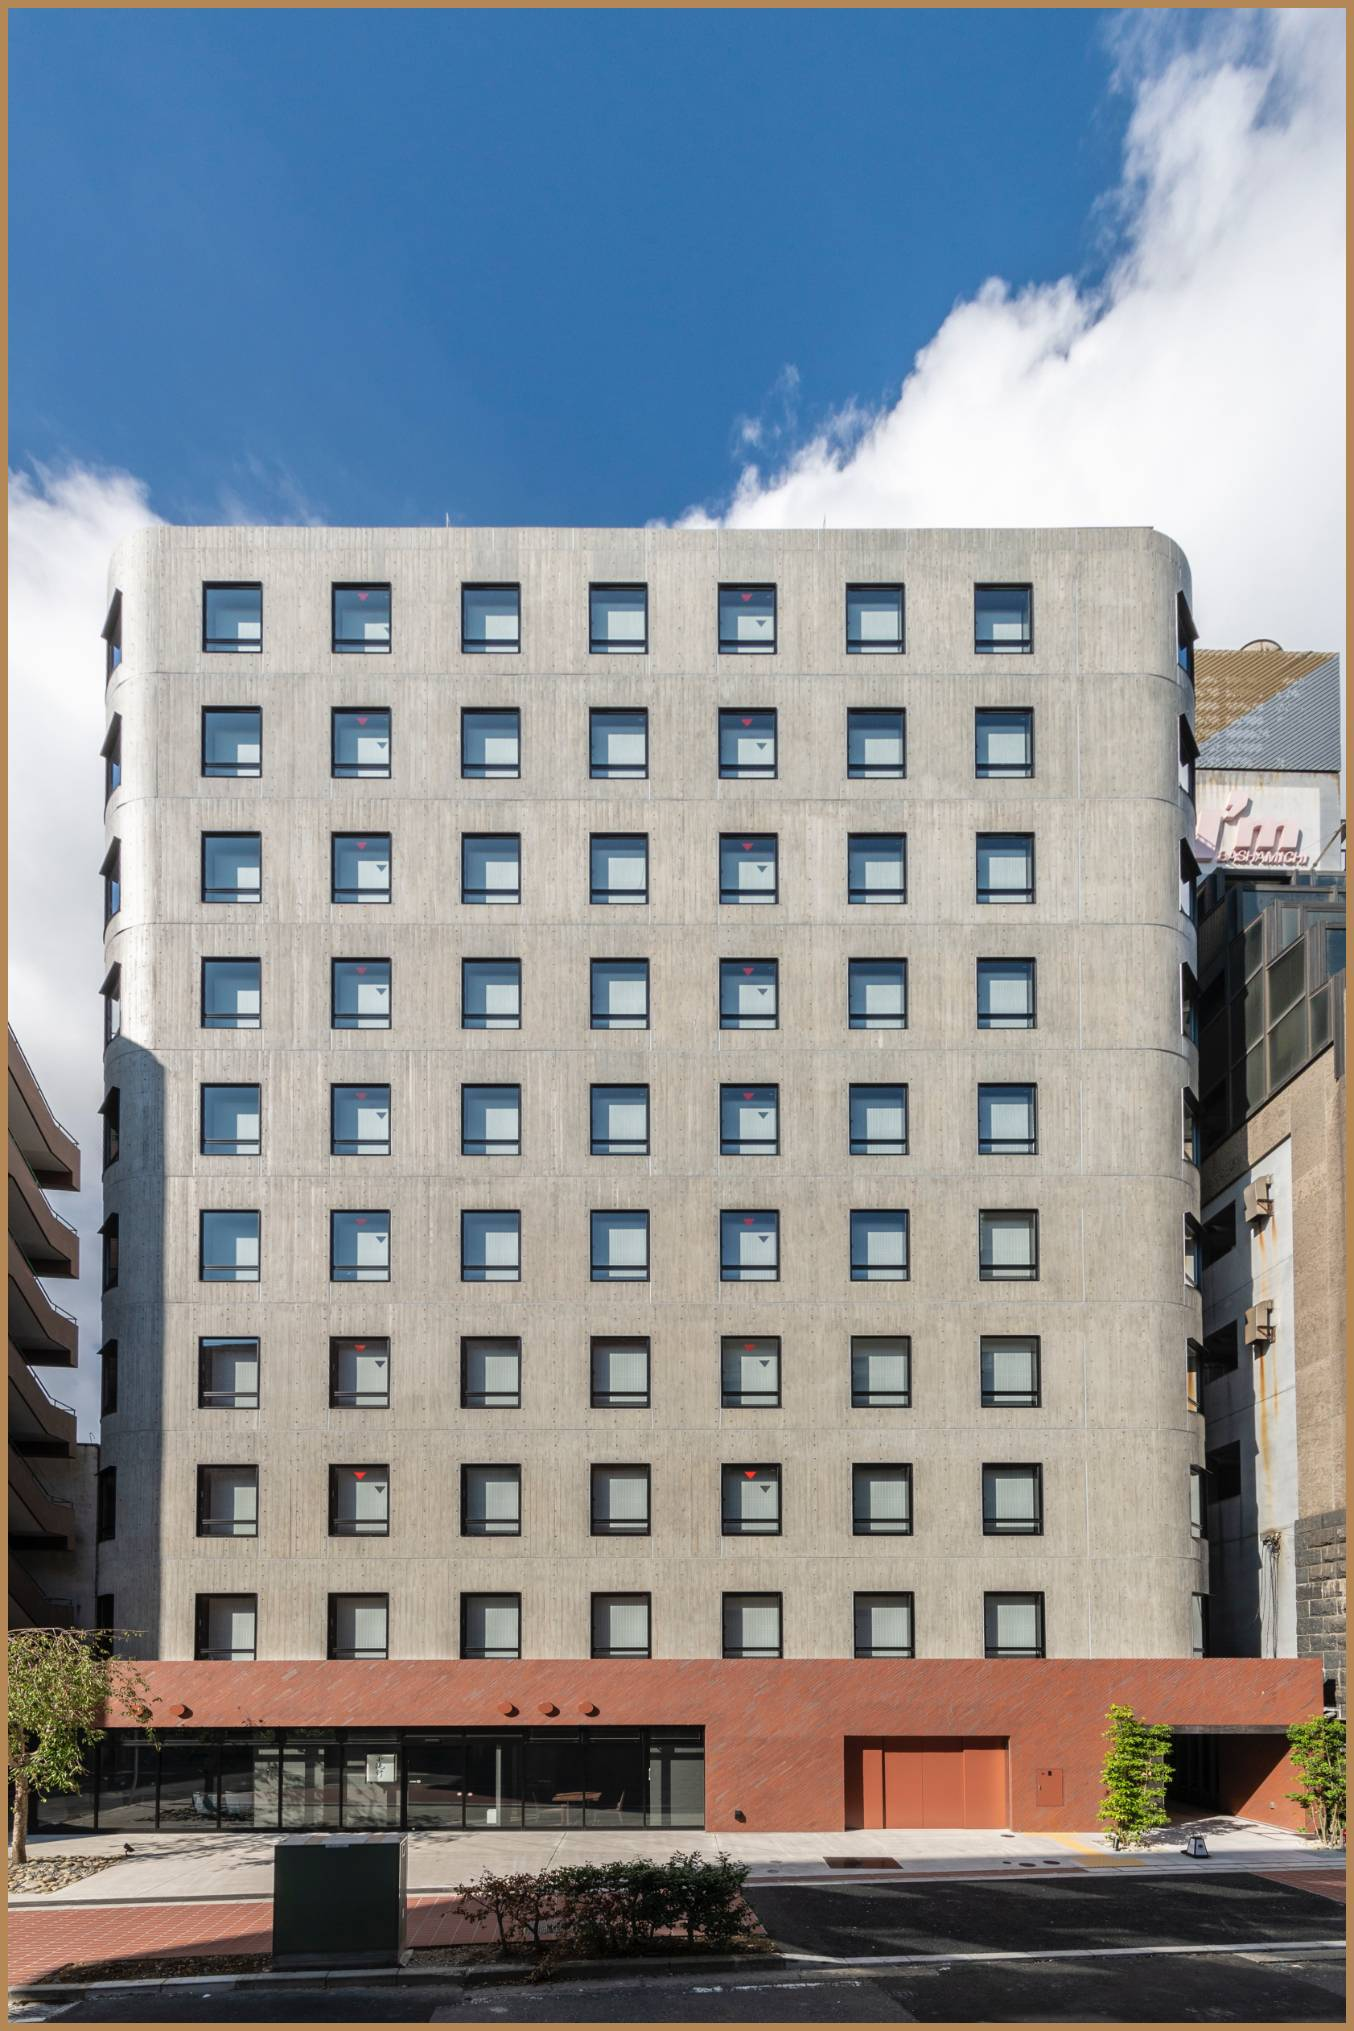
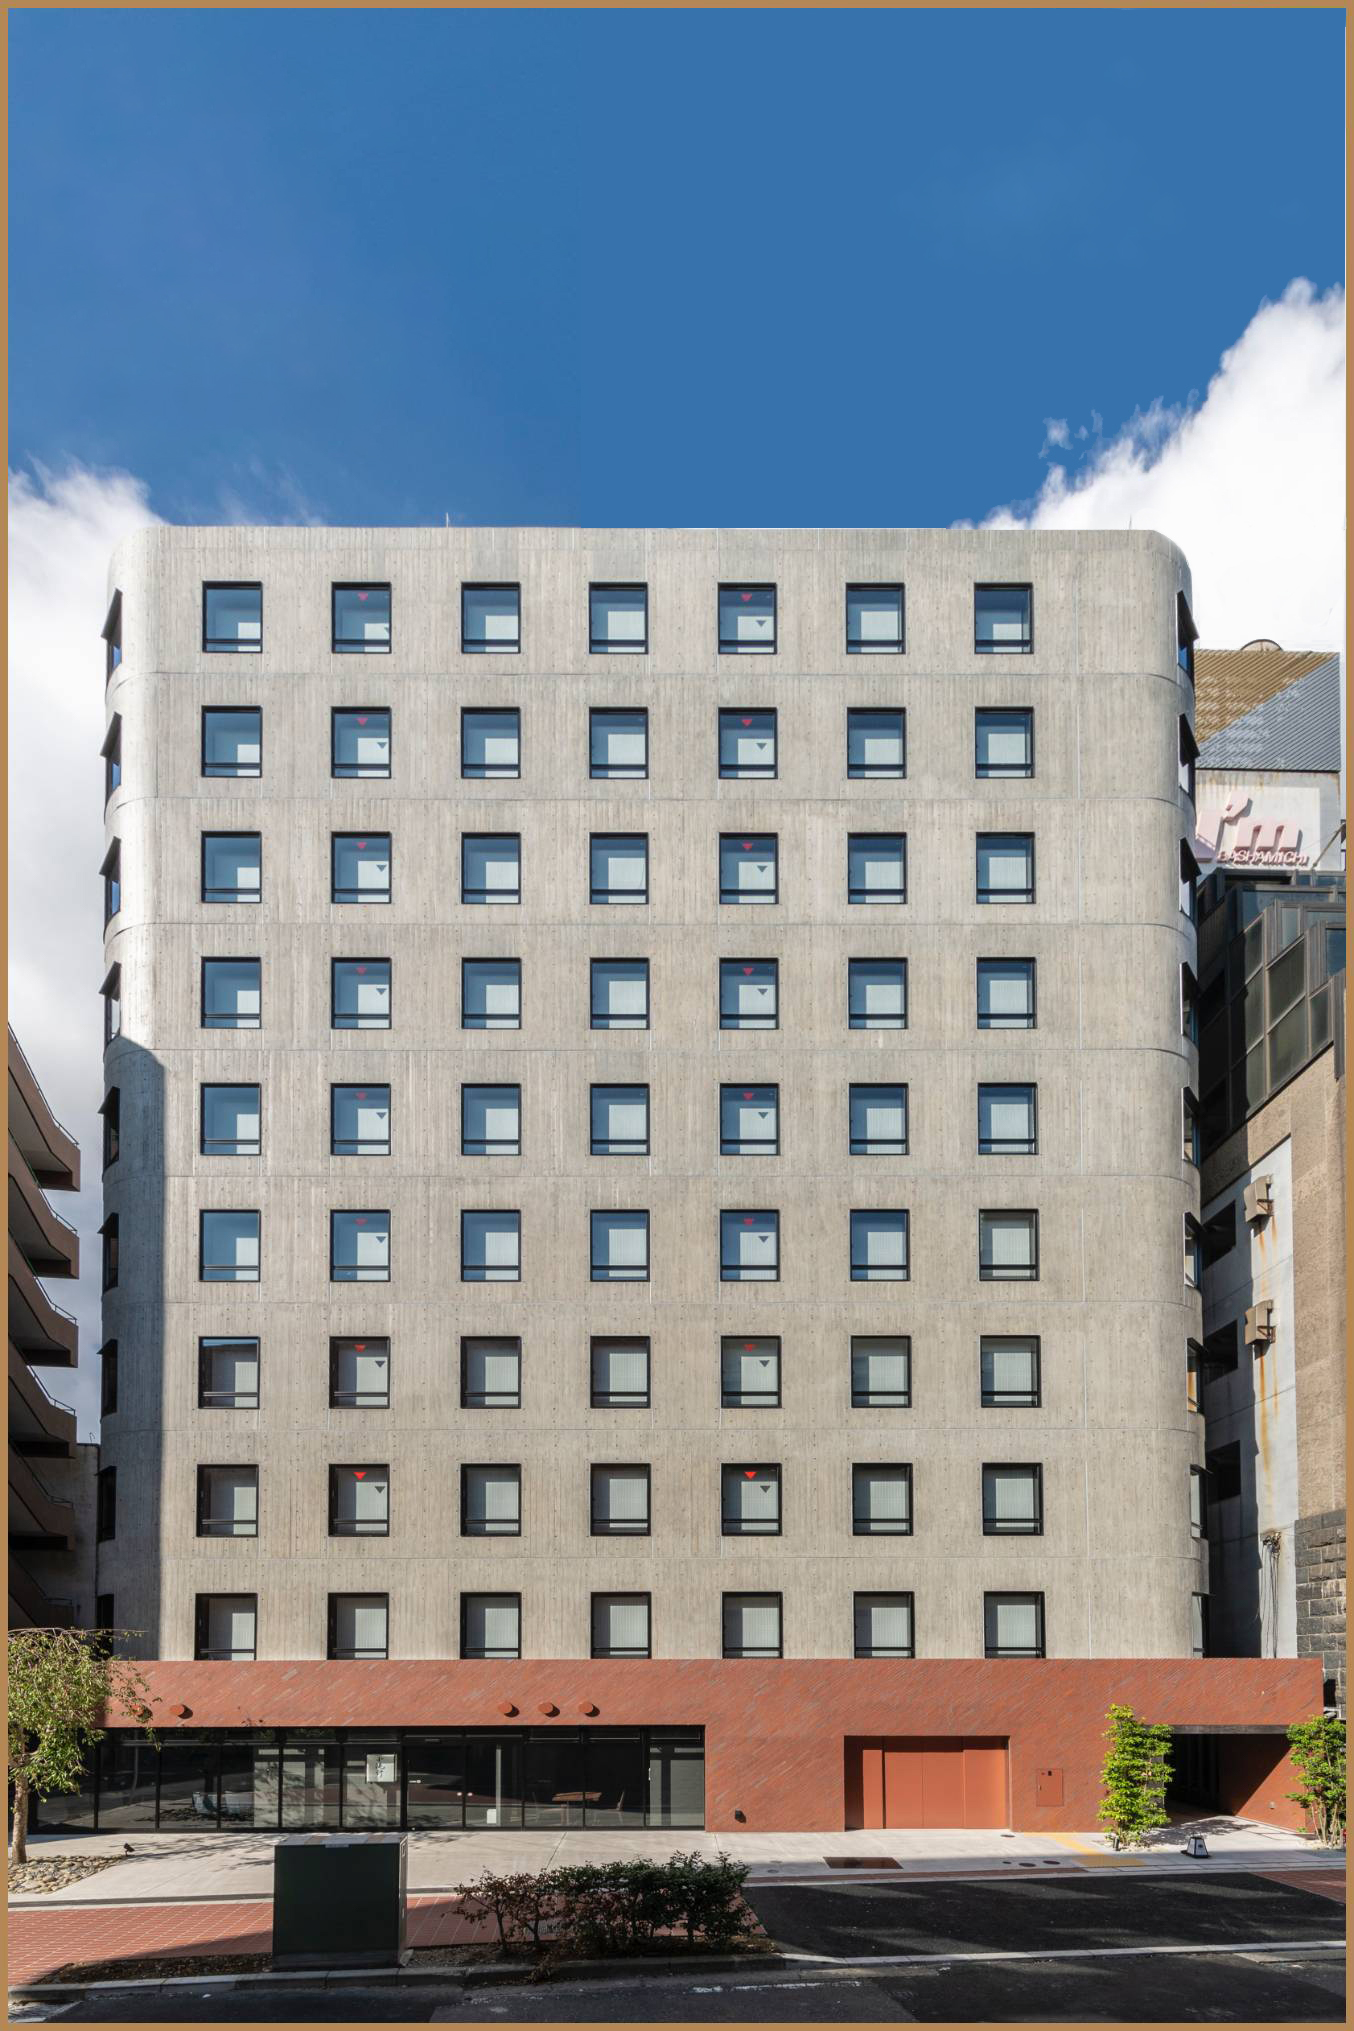
update gooddesign page image + css

Changed region(s): [[0.4653, 0.0, 1.0, 0.2792], [0.8996, 0.2482, 0.9926, 0.3412]]

diff --git a/prostyle-residence/www/prostyledata/assets/css/styles.css b/prostyle-residence/www/prostyledata/assets/css/styles.css
@@ -1255,7 +1255,6 @@ ul.list_row li h4 {
   font-size: 15px;
   text-shadow: 0px 3px 6px #00000091;
   line-height: 1.8em;
-  width: 470px;
 }
 .section_concetp {
   margin: 100px 0 0;

diff --git a/prostyle-residence/www/prostyledata/assets/css/mobile.css b/prostyle-residence/www/prostyledata/assets/css/mobile.css
@@ -325,7 +325,7 @@
 	}
 
 	.box_ryokan_topimg p {
-		width: 83%;
+		width: 95%;
 	}
 }
 @media (max-width: 414px) {
